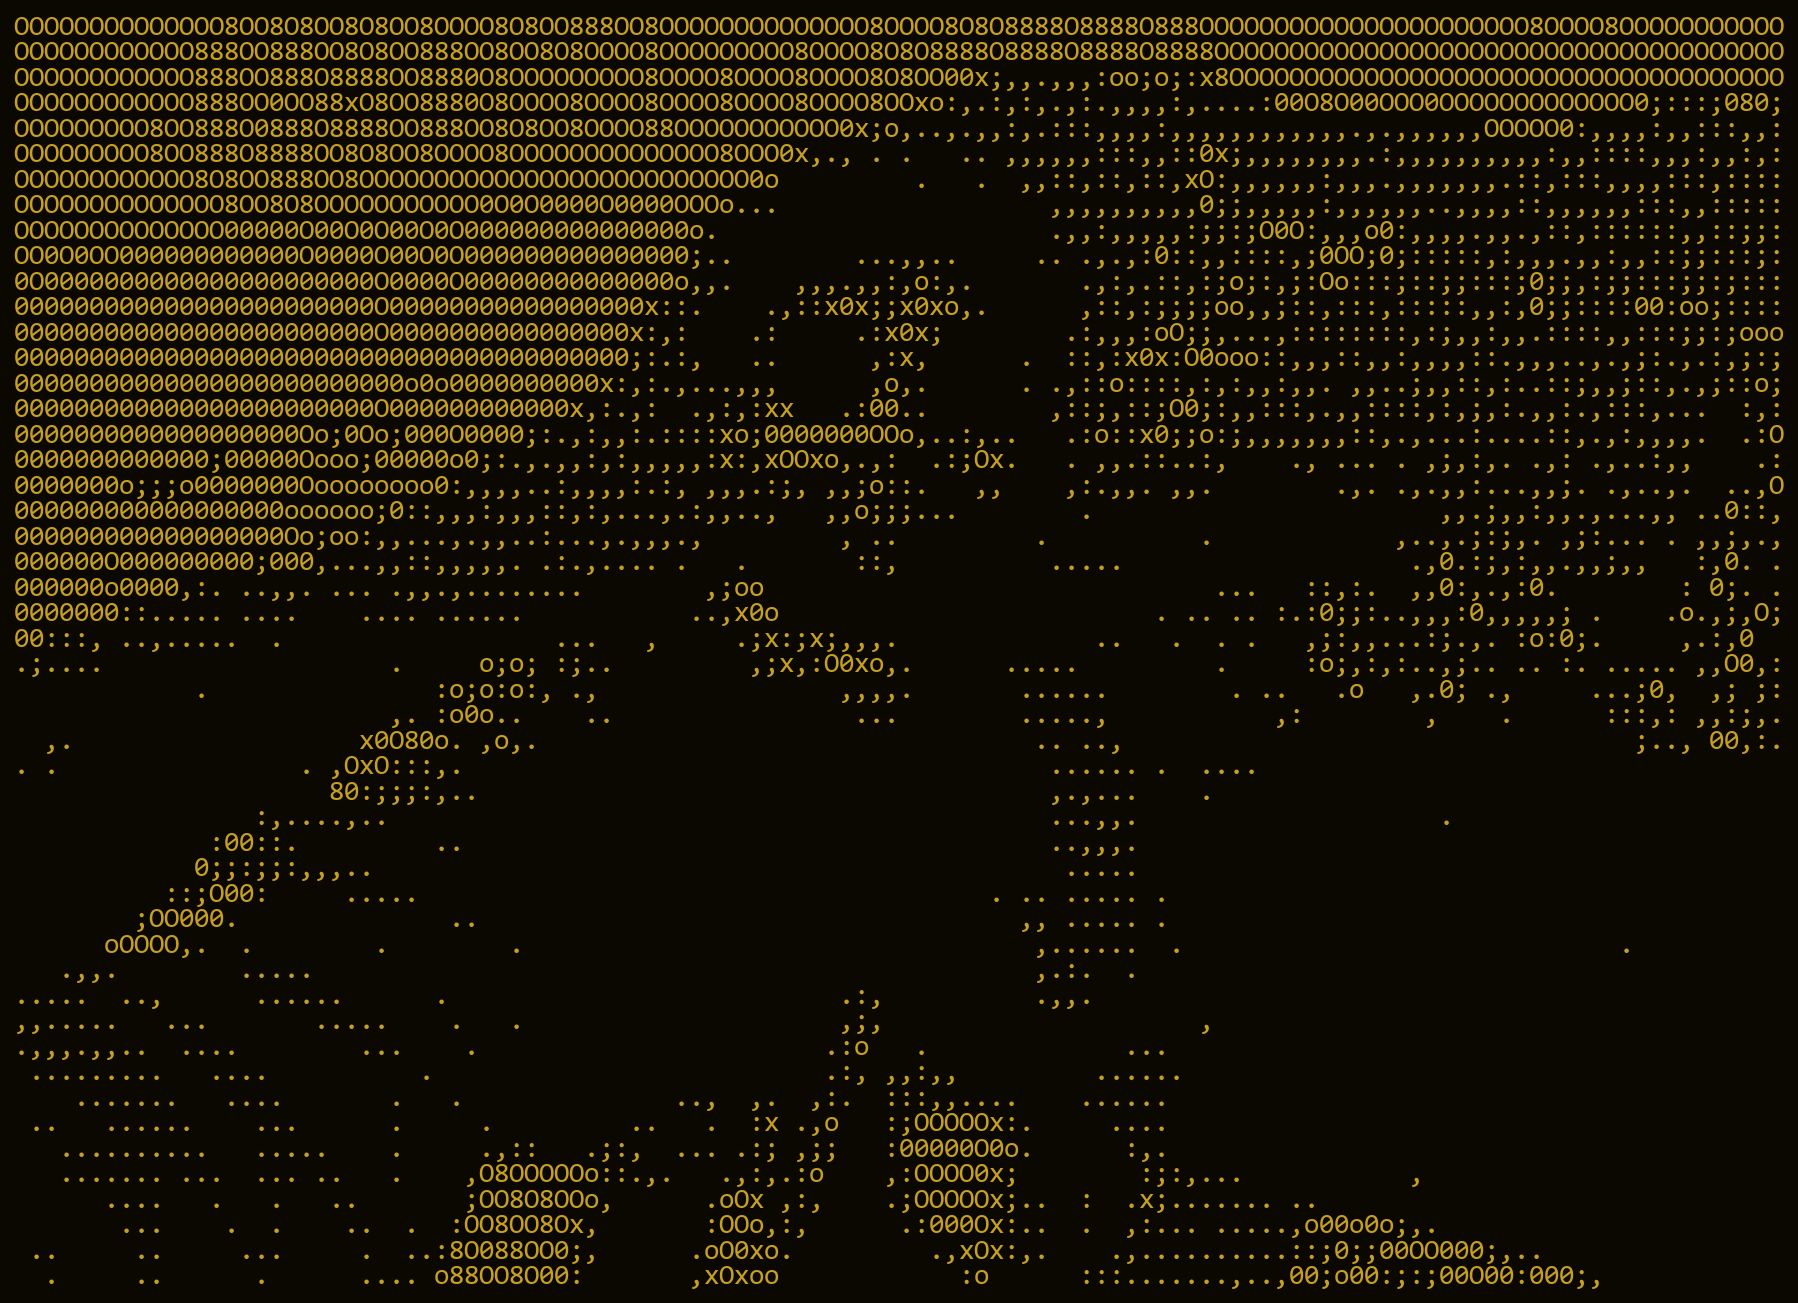
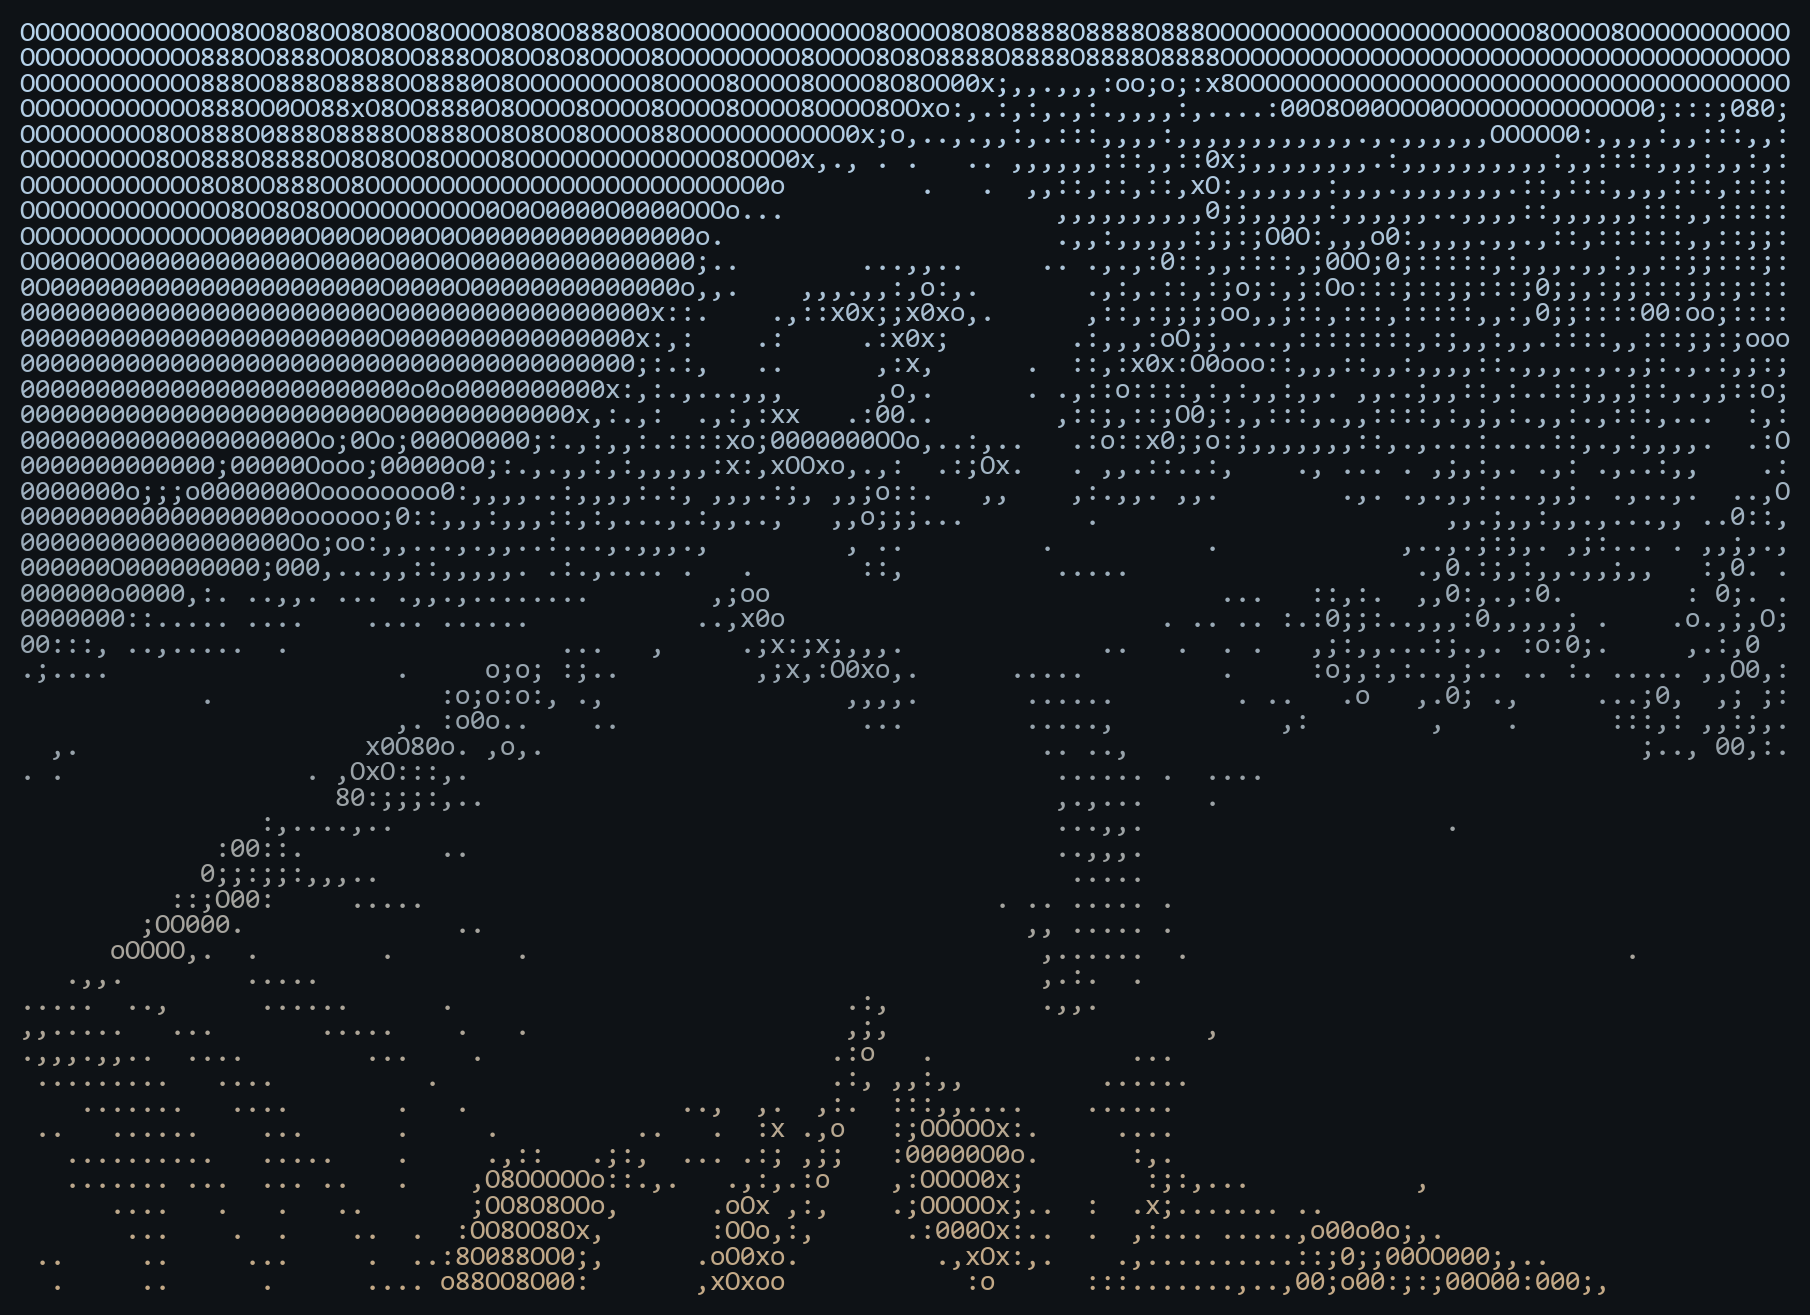
Redesign profile around the summit photograph
Replaces the Gotham theme entirely. The palette is sampled from the source
photo rather than invented: haze blue #B7D4ED, distant slate #95A2AC,
sunlit sand #C4A986, foliage #37414A on #0E1216.

Layout follows editorial minimalism -- a numbered index, serif display
type, wide-tracked mono labels, thin gradient rules and generous space,
instead of the previous badge-heavy treatment.

The ASCII portrait is re-rendered as a vertical dawn gradient, sky at the
top fading to sunlit warm at the base.

Sections: GOTHAM CASE FILES -> 01 SELECTED WORK (adds CP Sensei, drops the
placeholder), TECH ARSENAL -> 02 TOOLKIT, NIGHT PROTOCOL -> a short Go
field note, SIGNAL STATS -> 03 ACTIVITY, OPEN CHANNEL -> 04 ELSEWHERE.

Keeps if (it.breaks()) understand(it);

diff --git a/README.md b/README.md
@@ -1,220 +1,172 @@
 <div align="center">
 
-<img width="100%" src="https://capsule-render.vercel.app/api?type=rect&amp;color=0:0a0800,20:1c1000,50:0a0800,80:1c1000,100:0a0800&amp;height=3&amp;section=header"/>
+<img width="100%" src="https://capsule-render.vercel.app/api?type=rect&color=0:0E1216,25:37414A,50:C4A986,75:37414A,100:0E1216&height=2&section=header"/>
 
-</div>
+<br/>
 
-<div align="center">
+<img width="88%" src="assets/ascii-portrait.png" alt="ASCII self-portrait, somewhere above the treeline"/>
 
-```
-██████╗  ██████╗ ████████╗██╗  ██╗ █████╗ ███╗   ███╗
-██╔════╝ ██╔═══██╗╚══██╔══╝██║  ██║██╔══██╗████╗ ████║
-██║  ███╗██║   ██║   ██║   ███████║███████║██╔████╔██║
-██║   ██║██║   ██║   ██║   ██╔══██║██╔══██║██║╚██╔╝██║
-╚██████╔╝╚██████╔╝   ██║   ██║  ██║██║  ██║██║ ╚═╝ ██║
- ╚═════╝  ╚═════╝    ╚═╝   ╚═╝  ╚═╝╚═╝  ╚═╝╚═╝     ╚═╝
-          ◆  S Y S T E M S  O N L I N E  ◆
-```
+<br/>
+<sub><i>above the noise</i></sub>
+<br/><br/>
 
-</div>
+<img src="https://readme-typing-svg.demolab.com?font=Cormorant+Garamond&weight=600&size=44&duration=1&pause=99999&color=C9B393&center=true&vCenter=true&width=700&height=72&lines=Aditya+Pranjal"/>
 
-<div align="center">
+<sub>B A C K E N D &nbsp;&middot;&nbsp; D I S T R I B U T E D &nbsp; S Y S T E M S &nbsp;&middot;&nbsp; B E N G A L U R U</sub>
 
-<img src="https://readme-typing-svg.demolab.com?font=Cinzel+Decorative&amp;weight=700&amp;size=38&amp;duration=1&amp;pause=99999&amp;color=C8A020&amp;center=true&amp;vCenter=true&amp;width=700&amp;height=70&amp;lines=ADITYA+PRANJAL"/>
+<br/><br/>
 
-<img src="https://readme-typing-svg.demolab.com?font=Share+Tech+Mono&amp;size=13&amp;duration=2800&amp;pause=900&amp;color=6a5020&amp;center=true&amp;vCenter=true&amp;width=640&amp;lines=Backend+Sentinel.+Dark+Systems+Engineer.;Gotham+doesn't+need+a+hero.+It+needs+infrastructure.;if+(it.breaks())+understand(it)%3B;Building+systems+that+survive+the+night."/>
+<img src="https://readme-typing-svg.demolab.com?font=JetBrains+Mono&size=13&duration=3200&pause=1000&color=8FA0AE&center=true&vCenter=true&width=640&lines=if+(it.breaks())+understand(it)%3B;Build+it+quiet.+Let+it+run.;Altitude+over+noise." alt="if (it.breaks()) understand(it);"/>
 
-</div>
+<br/>
 
-<div align="center">
-
-<img width="100%" src="assets/ascii-portrait.png" alt="ASCII portrait"/>
-
-<sub>◈ <i>surveillance feed — subject identified</i> ◈</sub>
+<img width="100%" src="https://capsule-render.vercel.app/api?type=rect&color=0:0E1216,25:37414A,50:C4A986,75:37414A,100:0E1216&height=2&section=header"/>
 
 </div>
 
 <br/>
 
 <div align="center">
-
-[![🦇 ENTER THE BAT-SIGNAL — Full Interactive Profile](https://img.shields.io/badge/%F0%9F%A6%87%20%E2%97%88%20ENTER%20THE%20BAT--SIGNAL%20%E2%80%94%20Full%20Interactive%20Profile%20%E2%97%88-C8A020?style=for-the-badge&amp;labelColor=0d0a00&amp;color=0d0a00)](https://profile-page-beta-ten.vercel.app/)
-
+<i>I build backend systems and the tooling around them.<br/>
+The part I actually like happens away from the noise — a problem held long<br/>
+enough to be understood, then a system that runs quietly afterwards.</i>
 </div>
+
+<br/>
 
 ---
 
-<div align="center">
-
-<img src="https://media.giphy.com/media/3o7TKoWXm3okO1kgHC/giphy.gif" width="160" title="The Dark Knight approves your pull request"/>
-
-</div>
-
-<div align="center"><sub>🦇 <i>even Batman reviews code before merging to main</i></sub></div>
-
----
-
-### `🧩 // TECH ARSENAL`
-
-<div align="center">
-
-<img src="https://skillicons.dev/icons?i=nodejs,go,python,java,postgres,redis,kafka,docker,kubernetes,aws,linux,git&amp;theme=dark"/>
-
-</div>
-
----
-
-### `🦇 // GOTHAM CASE FILES`
+### 01 &nbsp;—&nbsp; SELECTED WORK
 
 <table>
 <tr>
 <td width="50%" valign="top">
 
-**◈ CASE FILE 001 — SES INTELLIGENCE**
+**SES INTELLIGENCE**
 
-> *Software that watches itself. Runtime intelligence at scale.*
+<sub>RUNTIME INTELLIGENCE &nbsp;·&nbsp; PYTHON, DJANGO, REACT</sub>
 
-- Monitors live function call graphs, computes health scores and forecasts degradation before it strikes
-- Auto-builds architecture graphs from traces with LLM-powered narrative generation
-- Published to PyPI · Django REST API · React dashboard · Full CI/CD
+Software that watches itself. Builds architecture graphs from live function
+calls, scores health, and flags degradation before it surfaces.
 
-`Python` · `Django` · `React` · `LLM` · `Docker`
+Published to PyPI. Django REST API, React dashboard, full CI/CD.
 
-[→ Repo](https://github.com/dummy-pranjal29/self-explaining-software) &nbsp;|&nbsp; [→ Live](https://self-explaining-software.onrender.com/)
+<sub>[repository](https://github.com/dummy-pranjal29/self-explaining-software) &nbsp;·&nbsp; [live](https://self-explaining-software.onrender.com/)</sub>
 
 </td>
 <td width="50%" valign="top">
 
-**◈ CASE FILE 002 — SCRIPTS.AI**
+**SCRIPTS.AI**
 
-> *Full in-browser AI dev environment. Write. Debug. Ship.*
+<sub>BROWSER DEV ENVIRONMENT &nbsp;·&nbsp; TYPESCRIPT, NEXT.JS, PRISMA</sub>
 
-- WebContainers-powered playground with Monaco editor, live preview and terminal — all in the browser
-- Groq-powered AI code assistance, role-based auth, multi-language support
-- Next.js App Router · MongoDB + Prisma · Deployed on Vercel
+A full development environment that never leaves the tab. Monaco editor,
+live preview and a real terminal, all on WebContainers.
 
-`TypeScript` · `Next.js` · `MongoDB` · `Prisma` · `WebContainers`
+Groq-backed assistance, role-based auth, multi-language.
 
-[→ Repo](https://github.com/dummy-pranjal29/scripts.ai) &nbsp;|&nbsp; [→ Live](https://scripts-ai-aps.vercel.app/)
+<sub>[repository](https://github.com/dummy-pranjal29/scripts.ai) &nbsp;·&nbsp; [live](https://scripts-ai-aps.vercel.app/)</sub>
 
 </td>
 </tr>
 <tr>
 <td width="50%" valign="top">
 
-**◈ CASE FILE 003 — AICODES**
+**CP SENSEI**
 
-> *Paste code. Gemini reviews it. Ship clean.*
+<sub>BROWSER EXTENSION &nbsp;·&nbsp; CHROME MV3, SHADOW DOM</sub>
 
-- Instant AI-powered code review via Google Gemini 2.0 Flash rendered with Markdown + syntax highlighting
-- Serverless Vercel functions backend — zero server ops, infinite scale
-- React frontend · Node.js · Secure API key handling
+Hints without leaving the problem. Starts with the topic, goes one layer
+deeper each time you ask, stops where you want it to.
 
-`JavaScript` · `React` · `Node.js` · `Gemini 2.0` · `Vercel`
+Reads the verdict after submission and points at where it went wrong.
 
-[→ Repo](https://github.com/dummy-pranjal29/AiCodes) &nbsp;|&nbsp; [→ Live](https://ai-codes-main-7s8l.vercel.app/)
+<sub>[repository](https://github.com/dummy-pranjal29/CP-Sensei)</sub>
 
 </td>
 <td width="50%" valign="top">
 
-**◈ SIGNAL DETECTED**
+**AICODES**
 
-> *Something stirs in Gotham's servers...*
+<sub>CODE REVIEW &nbsp;·&nbsp; REACT, NODE.JS, GEMINI</sub>
 
-- The next system is under construction
-- Infrastructure never sleeps in this city
-- Signal incoming — stand by, sentinel
+Paste code, get a review. Markdown output with syntax highlighting,
+served by Gemini 2.0 Flash.
 
-`???` · `???` · `???`
+Serverless functions on Vercel — no servers to keep alive.
 
-[→ 🦇 Follow the Signal](https://profile-page-beta-ten.vercel.app/)
+<sub>[repository](https://github.com/dummy-pranjal29/AiCodes) &nbsp;·&nbsp; [live](https://ai-codes-main-7s8l.vercel.app/)</sub>
 
 </td>
 </tr>
 </table>
 
+<br/>
+
 ---
 
-### `🖥 // NIGHT PROTOCOL BOOT`
+### 02 &nbsp;—&nbsp; TOOLKIT
 
-```bash
-$ ssh aditya@gotham-systems --protocol night
+<div align="center">
+<br/>
+<img src="https://skillicons.dev/icons?i=go,python,nodejs,java,postgres,redis,kafka,docker,kubernetes,aws,linux,git&theme=dark"/>
+<br/><br/>
+</div>
 
-[■■■■■■■■■■■■■■■■■■■■] 100% SYSTEMS LOADED
+```go
+// somewhere above the treeline, 6:40 AM
 
-✔ Backend Core ............. ONLINE
-✔ Distributed Layer ......... ONLINE
-✔ Night Protocol ............ ACTIVE
-✔ Signal Strength ........... MAXIMUM
-✔ Gotham Infrastructure ...... SECURED
-
-> Sentinel is watching. Systems are running.
-> The city never sleeps. Neither does the backend.
+for range time.Tick(day) {
+        if it.Breaks() {
+                understand(it)        // not patch it
+        }
+        ship(quietly)
+}
 ```
 
+<br/>
+
 ---
 
-### `📊 // SIGNAL STATS`
+### 03 &nbsp;—&nbsp; ACTIVITY
 
 <div align="center">
 
-<img height="150" src="https://github-readme-stats.vercel.app/api?username=dummy-pranjal29&amp;show_icons=true&amp;theme=transparent&amp;hide_border=true&amp;title_color=C8A020&amp;icon_color=C8A020&amp;text_color=6a5428&amp;bg_color=0a0800&amp;ring_color=C8A020&amp;include_all_commits=true&amp;count_private=true"/>
+<img height="150" src="https://github-readme-stats.vercel.app/api?username=dummy-pranjal29&show_icons=true&theme=transparent&hide_border=true&title_color=C9B393&icon_color=8FA0AE&text_color=8FA0AE&include_all_commits=true&count_private=true"/>
 &nbsp;
-<img height="150" src="https://github-readme-stats.vercel.app/api/top-langs/?username=dummy-pranjal29&amp;layout=compact&amp;theme=transparent&amp;hide_border=true&amp;title_color=C8A020&amp;text_color=6a5428&amp;bg_color=0a0800"/>
+<img height="150" src="https://github-readme-stats.vercel.app/api/top-langs/?username=dummy-pranjal29&layout=compact&theme=transparent&hide_border=true&title_color=C9B393&text_color=8FA0AE"/>
 
-</div>
+<br/><br/>
 
-<div align="center">
+<img width="56%" src="https://github-readme-streak-stats.herokuapp.com?user=dummy-pranjal29&theme=transparent&hide_border=true&ring=C4A986&fire=C4A986&currStreakLabel=C9B393&sideLabels=8FA0AE&dates=8FA0AE&currStreakNum=C9B393&sideNums=8FA0AE"/>
 
-<img width="55%" src="https://github-readme-streak-stats.herokuapp.com?user=dummy-pranjal29&amp;theme=transparent&amp;hide_border=true&amp;ring=C8A020&amp;fire=C8A020&amp;currStreakLabel=C8A020&amp;sideLabels=6a5428&amp;dates=6a5428&amp;currStreakNum=f0c040&amp;sideNums=c8b060&amp;background=0a0800"/>
+<br/><br/>
 
-</div>
-
----
-
-### `🐍 // COMMIT TRAIL`
-
-<div align="center">
-
-<img src="https://raw.githubusercontent.com/dummy-pranjal29/dummy-pranjal29/output/github-contribution-grid-snake-dark.svg"/>
-
-</div>
-
----
-
-### `🌐 // OPEN CHANNEL`
-
-<div align="center">
-
-<a href="https://www.linkedin.com/in/aditya-pranjal29/">
-<img src="https://img.shields.io/badge/LinkedIn-0d0a00?style=for-the-badge&amp;logo=linkedin&amp;logoColor=C8A020&amp;labelColor=0d0a00"/>
-</a>&nbsp;
-<a href="https://github.com/dummy-pranjal29">
-<img src="https://img.shields.io/badge/GitHub-0d0a00?style=for-the-badge&amp;logo=github&amp;logoColor=C8A020&amp;labelColor=0d0a00"/>
-</a>&nbsp;
-<a href="https://pranjalportfolio-ivory.vercel.app/">
-<img src="https://img.shields.io/badge/Portfolio-0d0a00?style=for-the-badge&amp;logo=vercel&amp;logoColor=C8A020&amp;labelColor=0d0a00"/>
-</a>&nbsp;
-<a href="https://x.com/notreallyaps_45">
-<img src="https://img.shields.io/badge/Twitter_/_X-0d0a00?style=for-the-badge&amp;logo=x&amp;logoColor=C8A020&amp;labelColor=0d0a00"/>
-</a>&nbsp;
-<a href="https://www.instagram.com/_pranjal.aditya_">
-<img src="https://img.shields.io/badge/Instagram-0d0a00?style=for-the-badge&amp;logo=instagram&amp;logoColor=C8A020&amp;labelColor=0d0a00"/>
-</a>&nbsp;
-<a href="mailto:adityapranjal29112001@gmail.com">
-<img src="https://img.shields.io/badge/Email-0d0a00?style=for-the-badge&amp;logo=gmail&amp;logoColor=C8A020&amp;labelColor=0d0a00"/>
-</a>
+<img width="92%" src="https://raw.githubusercontent.com/dummy-pranjal29/dummy-pranjal29/output/github-contribution-grid-snake-dark.svg"/>
 
 </div>
 
 <br/>
 
-<div align="center">
-<sub><a href="https://profile-page-beta-ten.vercel.app/">🦇 &nbsp; Signal detected. Are you watching closely? &nbsp; 🦇</a></sub>
-</div>
+---
+
+### 04 &nbsp;—&nbsp; ELSEWHERE
 
 <div align="center">
+<br/>
 
-<img width="100%" src="https://capsule-render.vercel.app/api?type=waving&amp;color=0:0a0800,50:1c1000,100:0a0800&amp;height=80&amp;section=footer&amp;reversal=true"/>
+<a href="https://www.linkedin.com/in/aditya-pranjal29/"><img src="https://img.shields.io/badge/LinkedIn-0E1216?style=flat-square&logo=linkedin&logoColor=8FA0AE&labelColor=0E1216"/></a>
+&nbsp;
+<a href="https://pranjalportfolio-ivory.vercel.app/"><img src="https://img.shields.io/badge/Portfolio-0E1216?style=flat-square&logo=vercel&logoColor=8FA0AE&labelColor=0E1216"/></a>
+&nbsp;
+<a href="https://x.com/notreallyaps_45"><img src="https://img.shields.io/badge/X-0E1216?style=flat-square&logo=x&logoColor=8FA0AE&labelColor=0E1216"/></a>
+&nbsp;
+<a href="https://www.instagram.com/_pranjal.aditya_"><img src="https://img.shields.io/badge/Instagram-0E1216?style=flat-square&logo=instagram&logoColor=8FA0AE&labelColor=0E1216"/></a>
+&nbsp;
+<a href="mailto:adityapranjal29112001@gmail.com"><img src="https://img.shields.io/badge/Email-0E1216?style=flat-square&logo=gmail&logoColor=8FA0AE&labelColor=0E1216"/></a>
+
+<br/><br/>
+
+<img width="100%" src="https://capsule-render.vercel.app/api?type=rect&color=0:0E1216,25:37414A,50:C4A986,75:37414A,100:0E1216&height=2&section=footer"/>
 
 </div>
